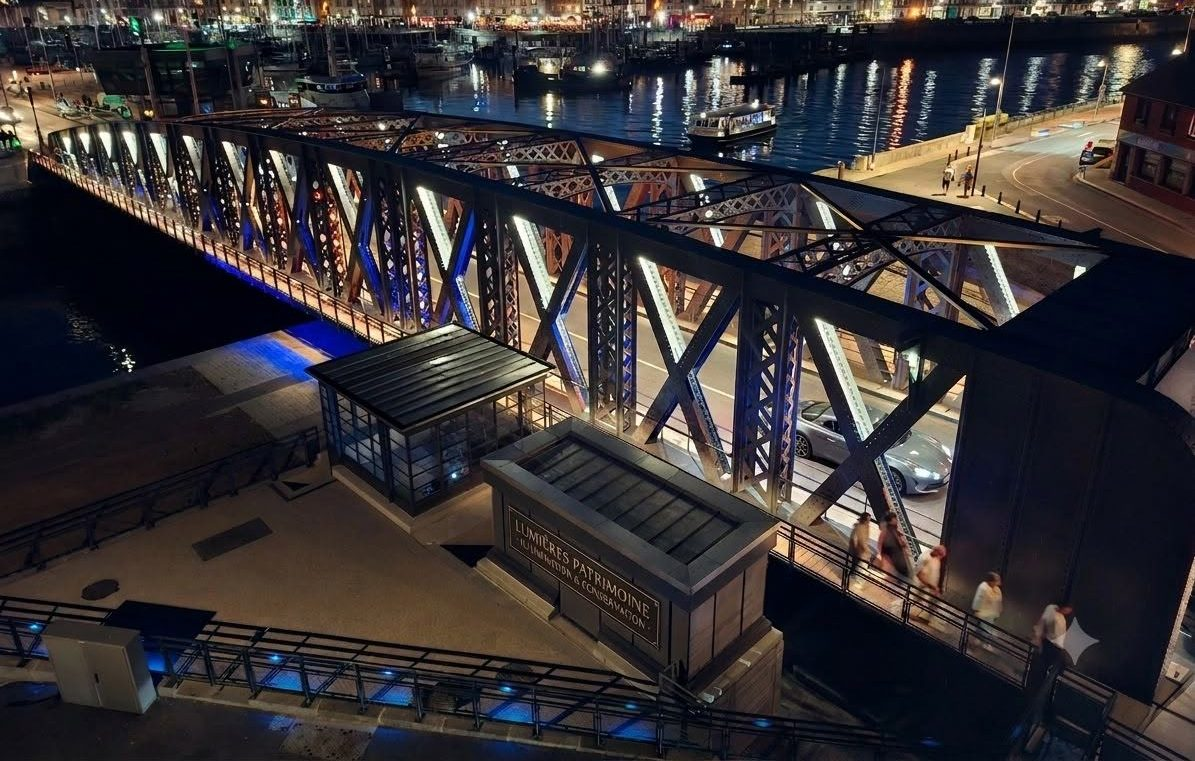
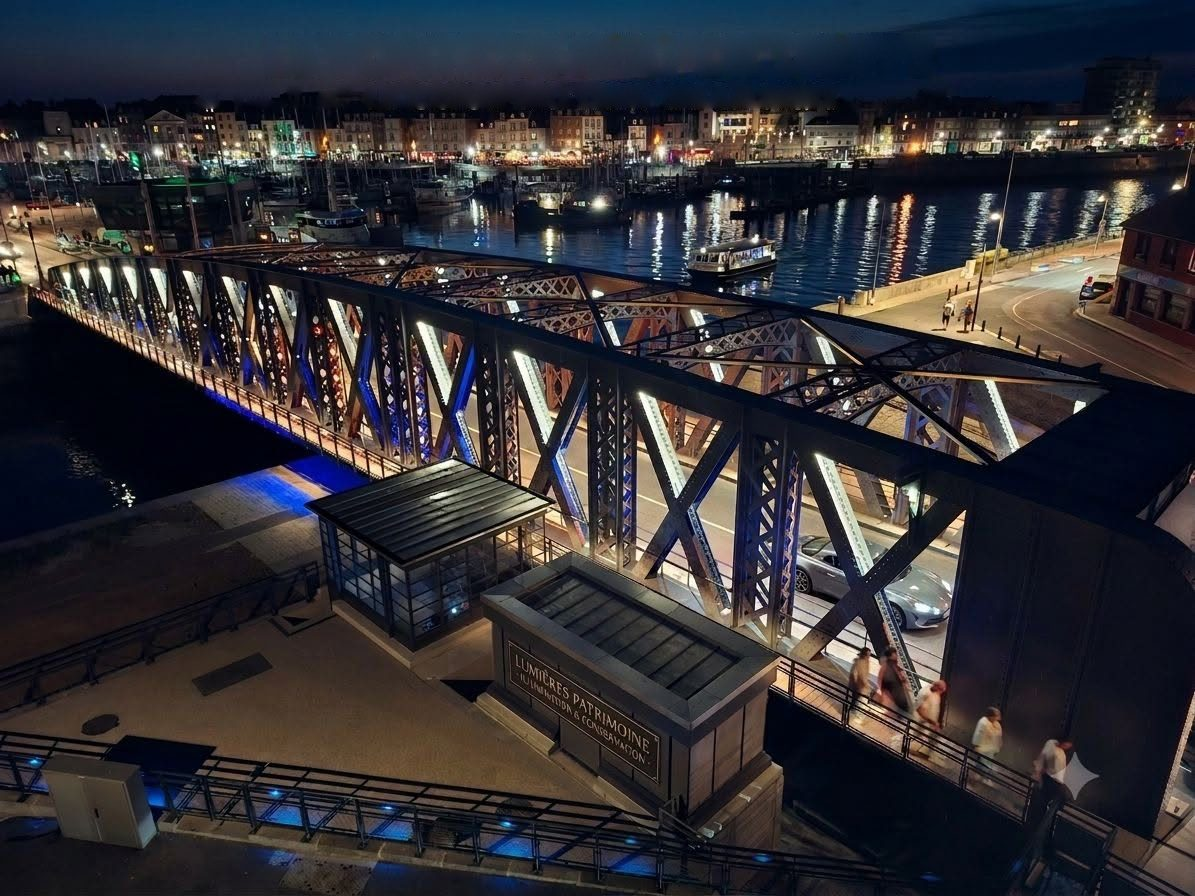
Rend au theme sombre le front de mer, cadre comme le theme clair
La photo de nuit avait ete rognee de 135 px en haut pour supprimer son titre
incruste, ce qui emportait les immeubles du quai et lui donnait un rapport
different de la photo de jour : object-fit: cover recadrant selon le rapport de
l image, le pont ne tombait pas au meme endroit selon le theme.

Le titre est desormais reconstruit plutot que rogne (src/efface_titre.py) et les
deux photos font 1195x896. build.js lit les dimensions dans les fichiers et
refuse de construire si elles different.

diff --git a/src/build.js b/src/build.js
@@ -41,8 +41,44 @@ function variantes(prefixe) {
   return trouvees;
 }
 
+// Dimensions réelles d'un JPEG, lues dans son marqueur SOF.
+function dimensions(rel) {
+  const buf = fs.readFileSync(path.join(root, rel));
+  let i = 2; // après le marqueur de début d'image
+  while (i + 9 < buf.length) {
+    if (buf[i] !== 0xFF) { i++; continue; }
+    const marqueur = buf[i + 1];
+    const porteLesDimensions = marqueur >= 0xC0 && marqueur <= 0xCF
+      && ![0xC4, 0xC8, 0xCC].includes(marqueur);
+    if (porteLesDimensions) {
+      return { hauteur: buf.readUInt16BE(i + 5), largeur: buf.readUInt16BE(i + 7) };
+    }
+    i += 2 + buf.readUInt16BE(i + 2);
+  }
+  throw new Error(`${rel} : dimensions JPEG introuvables`);
+}
+
 const NUIT = variantes('pont-nuit');
 const JOUR = variantes('pont-jour');
+
+// Les deux photos sont cadrées à l'identique, et le héro compte là-dessus : object-fit:
+// cover recadre selon le rapport de l'image, si bien que deux rapports différents font
+// sauter le pont d'une position à l'autre au changement de thème, d'un écart qui varie
+// avec la taille de l'écran. La contrainte est vérifiée ici plutôt que constatée à l'œil.
+if (NUIT.length !== JOUR.length) {
+  throw new Error(`photos : ${NUIT.length} variantes de nuit contre ${JOUR.length} de jour`);
+}
+NUIT.forEach((nuit, i) => {
+  const jour = JOUR[i];
+  const dn = dimensions(nuit.rel);
+  const dj = dimensions(jour.rel);
+  if (dn.largeur !== dj.largeur || dn.hauteur !== dj.hauteur) {
+    throw new Error(
+      `cadrage : ${nuit.rel} fait ${dn.largeur}x${dn.hauteur} et ${jour.rel} ${dj.largeur}x${dj.hauteur} — ` +
+      'les deux photos doivent avoir exactement les mêmes dimensions'
+    );
+  }
+});
 const plusGrande = v => v[v.length - 1].rel;
 const plusPetite = v => v[0].rel;
 const srcset = v => v.map(x => `${x.rel} ${x.largeur}w`).join(', ');
@@ -90,6 +126,15 @@ if (fragmentOnly) {
 }
 
 if (/__(DATA|PHOTO_DATA|AVIS_PAGE1|AVIS_PAGE2|AVIS_PDF)__/.test(html)) throw new Error('un repère est resté dans la sortie');
+// les dimensions déclarées réservent la place du héro avant le chargement : fausses,
+// la page sursaute au premier affichage
+const balise = html.match(/<img[^>]*class="hero-photo"[^>]*>/);
+if (!balise) throw new Error('gabarit : la photo du héro est introuvable');
+const reelles = dimensions(plusGrande(NUIT));
+if (!balise[0].includes(`width="${reelles.largeur}"`) || !balise[0].includes(`height="${reelles.hauteur}"`)) {
+  throw new Error(`gabarit : déclarer la photo du héro en ${reelles.largeur}x${reelles.hauteur}`);
+}
+
 const opens = (html.match(/<svg/g) || []).length;
 const closes = (html.match(/<\/svg>/g) || []).length;
 if (opens !== closes) throw new Error(`balises <svg> déséquilibrées : ${opens}/${closes}`);

diff --git a/index.html b/index.html
@@ -462,8 +462,8 @@
          spéculatif du navigateur télécharge la photo correspondant à la préférence du
          système avant même qu'un thème forcé ait pu être pris en compte. -->
     <img class="hero-photo" id="heroPhoto" data-nuit="assets/pont-nuit-1195.jpg" data-nuit-srcset="assets/pont-nuit-760.jpg 760w, assets/pont-nuit-1195.jpg 1195w" data-jour="assets/pont-jour-1195.jpg" data-jour-srcset="assets/pont-jour-760.jpg 760w, assets/pont-jour-1195.jpg 1195w" sizes="(max-width: 600px) 100vw, 560px"
-         width="1195" height="761" fetchpriority="high" decoding="async"
-         alt="Le pont Colbert illuminé de nuit au-dessus du chenal de Dieppe, sa travée en treillis soulignée de lumière bleue">
+         width="1195" height="896" fetchpriority="high" decoding="async"
+         alt="Le pont Colbert illuminé de nuit au-dessus du chenal de Dieppe, sa travée en treillis soulignée de lumière bleue, le front de mer du Pollet éclairé en arrière-plan">
     <script>
       /* Choisit la photo avant la première peinture : carte postale ancienne en thème
          clair, pont illuminé en thème sombre. Le thème mémorisé prime sur le système. */
@@ -800,7 +800,7 @@ const ICON_SUN = '<svg viewBox="0 0 24 24" fill="none" stroke="currentColor" str
   '<circle cx="12" cy="12" r="4.2"/><path d="M12 2.6v2.2M12 19.2v2.2M4.3 4.3l1.6 1.6M18.1 18.1l1.6 1.6M2.6 12h2.2M19.2 12h2.2M4.3 19.7l1.6-1.6M18.1 5.9l1.6-1.6"/></svg>';
 const ICON_MOON = '<svg viewBox="0 0 24 24" fill="none" stroke="currentColor" stroke-width="1.8" stroke-linecap="round" stroke-linejoin="round" aria-hidden="true">' +
   '<path d="M20 14.2A8.2 8.2 0 0 1 9.8 4 8.2 8.2 0 1 0 20 14.2Z"/></svg>';
-const ALT_NUIT = "Le pont Colbert illuminé de nuit au-dessus du chenal de Dieppe, sa travée en treillis soulignée de lumière bleue";
+const ALT_NUIT = "Le pont Colbert illuminé de nuit au-dessus du chenal de Dieppe, sa travée en treillis soulignée de lumière bleue, le front de mer du Pollet éclairé en arrière-plan";
 const ALT_JOUR = "Vue de jour du pont Colbert à Dieppe : sa travée en treillis rivetée franchissant le chenal, le bassin de plaisance et les quais du Pollet en arrière-plan";
 const heroPhoto = $("heroPhoto");
 const prefersLight = window.matchMedia("(prefers-color-scheme: light)");

diff --git a/src/pont_colbert_template.html b/src/pont_colbert_template.html
@@ -416,8 +416,8 @@
          spéculatif du navigateur télécharge la photo correspondant à la préférence du
          système avant même qu'un thème forcé ait pu être pris en compte. -->
     <img class="hero-photo" id="heroPhoto" __PHOTO_DATA__ sizes="(max-width: 600px) 100vw, 560px"
-         width="1195" height="761" fetchpriority="high" decoding="async"
-         alt="Le pont Colbert illuminé de nuit au-dessus du chenal de Dieppe, sa travée en treillis soulignée de lumière bleue">
+         width="1195" height="896" fetchpriority="high" decoding="async"
+         alt="Le pont Colbert illuminé de nuit au-dessus du chenal de Dieppe, sa travée en treillis soulignée de lumière bleue, le front de mer du Pollet éclairé en arrière-plan">
     <script>
       /* Choisit la photo avant la première peinture : carte postale ancienne en thème
          clair, pont illuminé en thème sombre. Le thème mémorisé prime sur le système. */
@@ -754,7 +754,7 @@ const ICON_SUN = '<svg viewBox="0 0 24 24" fill="none" stroke="currentColor" str
   '<circle cx="12" cy="12" r="4.2"/><path d="M12 2.6v2.2M12 19.2v2.2M4.3 4.3l1.6 1.6M18.1 18.1l1.6 1.6M2.6 12h2.2M19.2 12h2.2M4.3 19.7l1.6-1.6M18.1 5.9l1.6-1.6"/></svg>';
 const ICON_MOON = '<svg viewBox="0 0 24 24" fill="none" stroke="currentColor" stroke-width="1.8" stroke-linecap="round" stroke-linejoin="round" aria-hidden="true">' +
   '<path d="M20 14.2A8.2 8.2 0 0 1 9.8 4 8.2 8.2 0 1 0 20 14.2Z"/></svg>';
-const ALT_NUIT = "Le pont Colbert illuminé de nuit au-dessus du chenal de Dieppe, sa travée en treillis soulignée de lumière bleue";
+const ALT_NUIT = "Le pont Colbert illuminé de nuit au-dessus du chenal de Dieppe, sa travée en treillis soulignée de lumière bleue, le front de mer du Pollet éclairé en arrière-plan";
 const ALT_JOUR = "Vue de jour du pont Colbert à Dieppe : sa travée en treillis rivetée franchissant le chenal, le bassin de plaisance et les quais du Pollet en arrière-plan";
 const heroPhoto = $("heroPhoto");
 const prefersLight = window.matchMedia("(prefers-color-scheme: light)");

diff --git a/src/efface_titre.py b/src/efface_titre.py
@@ -1,0 +1,116 @@
+# Efface le titre incrusté en haut de la photo nocturne du pont.
+#
+# La photo d'origine porte « LE PONT COLBERT DE DIEPPE / LE CŒUR BATTANT DE LA NUIT ».
+# Rogner suffirait à le supprimer, mais emporterait le front de mer, justement joli de
+# nuit — et surtout donnerait à la photo nocturne un format différent de la photo diurne,
+# alors que les deux sont cadrées à l'identique en 1195x896. Or object-fit: cover recadre
+# selon le rapport de l'image : deux rapports différents, c'est un pont qui saute d'une
+# position à l'autre au changement de thème, d'un écart qui varie avec la taille de
+# l'écran. Le texte est donc reconstruit, pas rogné.
+#
+# Il repose entièrement sur le ciel : les toits ne commencent qu'à y ~ 110.
+#
+# Deux précautions, tirées d'une première version ratée :
+#
+#  - le masque compare chaque pixel à la médiane d'une fenêtre horizontale, pas à celle de
+#    la ligne entière. Le ciel garde une lueur de couchant sur la droite ; mesurée sur la
+#    ligne entière, cette lueur passait pour du texte et se faisait effacer, laissant un
+#    rectangle plus clair ;
+#  - le remplissage résout une équation de Laplace sur la zone masquée, les pixels
+#    conservés servant de conditions aux limites. Une interpolation horizontale ligne à
+#    ligne, elle, traitait chaque ligne indépendamment et laissait des traînées.
+#
+# Usage : python src/efface_titre.py <photo-source.jpg> [-s sortie.jpg]
+import argparse
+import os
+
+import numpy as np
+from numpy.lib.stride_tricks import sliding_window_view
+from PIL import Image
+
+# Zone fouillée. Relevé sur la photo d'origine : le sous-titre occupe les lignes 87 à 108,
+# les toits commencent à la ligne 109. La zone doit couvrir la ligne 108 comprise — s'y
+# arrêter une ligne trop tôt laisse du texte juste sous le masque, et la diffusion remonte
+# alors sa clarté dans le ciel en halos. La borne droite laisse de côté l'immeuble haut du
+# bord droit, qui monte jusqu'à y ~ 57.
+X0, X1, Y0, Y1 = 150, 1050, 10, 109
+RAYON = 30       # demi-largeur de la fenêtre de médiane locale
+ECART = 22       # écart à cette médiane au-delà duquel un pixel est du texte
+MARGE = 4        # dilatation du masque, pour attraper l'anticrénelage des lettres
+ITERATIONS = 3000
+GRAIN = 1.2      # bruit rendu au ciel reconstruit, pour ne pas trancher avec le reste
+
+
+def masque_texte(band):
+    """Pixels s'écartant nettement du ciel local, dilatés."""
+    h, l, _ = band.shape
+    pad = np.pad(band, ((0, 0), (RAYON, RAYON), (0, 0)), mode="edge")
+    ecarts = np.zeros((h, l), dtype=np.float64)
+    for c in range(3):
+        fenetres = sliding_window_view(pad[:, :, c], 2 * RAYON + 1, axis=1)
+        mediane = np.median(fenetres, axis=-1)
+        ecarts = np.maximum(ecarts, np.abs(band[:, :, c] - mediane))
+
+    m = ecarts > ECART
+
+    # dilatation par décalages francs : np.roll ferait réapparaître en haut de la zone ce
+    # qui déborde en bas, donc du masque au milieu du ciel
+    dilate = np.zeros_like(m)
+    for dy in range(-MARGE, MARGE + 1):
+        src_y = slice(max(0, -dy), h - max(0, dy))
+        dst_y = slice(max(0, dy), h - max(0, -dy))
+        for dx in range(-MARGE, MARGE + 1):
+            src_x = slice(max(0, -dx), l - max(0, dx))
+            dst_x = slice(max(0, dx), l - max(0, -dx))
+            dilate[dst_y, dst_x] |= m[src_y, src_x]
+    return dilate
+
+
+def efface(source, sortie):
+    im = Image.open(source).convert("RGB")
+    if im.width < X1 or im.height < Y1:
+        raise SystemExit(f"{source} : {im.width}x{im.height}, trop petite pour la zone de texte")
+
+    pixels = np.asarray(im, dtype=np.float64)
+
+    # on travaille sur une bande plus large que la zone : les pixels conservés du pourtour
+    # fournissent les conditions aux limites du remplissage
+    hy0, hy1 = max(0, Y0 - 12), min(im.height, Y1 + 22)
+    hx0, hx1 = max(0, X0 - 40), min(im.width, X1 + 40)
+    band = pixels[hy0:hy1, hx0:hx1].copy()
+
+    m = np.zeros(band.shape[:2], dtype=bool)
+    m[Y0 - hy0:Y1 - hy0, X0 - hx0:X1 - hx0] = masque_texte(
+        band[Y0 - hy0:Y1 - hy0, X0 - hx0:X1 - hx0]
+    )
+    # le bord de la bande doit rester intact : c'est lui qui fixe les valeurs aux limites
+    m[0, :] = m[-1, :] = m[:, 0] = m[:, -1] = False
+    if not m.any():
+        raise SystemExit("aucun texte détecté — la photo est-elle bien l'originale ?")
+
+    travail = band.copy()
+    for _ in range(ITERATIONS):
+        moyenne = (travail[:-2, 1:-1] + travail[2:, 1:-1]
+                   + travail[1:-1, :-2] + travail[1:-1, 2:]) / 4.0
+        interieur = m[1:-1, 1:-1]
+        travail[1:-1, 1:-1][interieur] = moyenne[interieur]
+
+    grain = np.random.default_rng(0).normal(0.0, GRAIN, travail.shape)
+    travail[m] += grain[m]
+
+    band[m] = travail[m]
+    pixels[hy0:hy1, hx0:hx1] = band
+
+    Image.fromarray(np.clip(pixels, 0, 255).astype(np.uint8)).save(
+        sortie, quality=95, subsampling=0
+    )
+    print(f"{os.path.basename(sortie)} : {im.width}x{im.height}, "
+          f"{int(m.sum())} pixels de ciel reconstruits")
+
+
+if __name__ == "__main__":
+    p = argparse.ArgumentParser(description="Efface le titre incrusté de la photo nocturne.")
+    p.add_argument("source")
+    p.add_argument("-s", "--sortie", default=None)
+    a = p.parse_args()
+    efface(a.source, a.sortie or os.path.splitext(a.source)[0] + "-sans-titre.jpg")

diff --git a/README.md b/README.md
@@ -67,7 +67,9 @@ docs/               avis officiel de la capitainerie : PDF et pages en images
 src/
   pont_colbert_template.html  gabarit : styles, mise en page, logique d'affichage
   prepare_photo.py            recadre une photo et produit les largeurs voulues
+  efface_titre.py             reconstruit le ciel sous le titre incrusté de la photo de nuit
   prepare_avis.py             copie l'avis PDF et en rend les pages en images
+  publish.js                  assemble public/ : les seuls fichiers à mettre en ligne
   dataset.json                marées 2026-2028 : [minutesUTC, hauteurCm, pleineMer, coeff, prédit]
   build.js                    assemble gabarit + photo + données, ajoute l'en-tête HTML → index.html
   harmonic.js                 analyse et prédiction harmonique de la marée
@@ -105,10 +107,29 @@ node src/build.js
 ```
 
 `--nom` vaut `pont-jour` ou `pont-nuit`. `--haut` et `--bas` retirent une bande de texte
-incrustée (le titre de la photo de nuit, la légende de la carte postale). Les fichiers
-sont nommés d'après leur largeur réelle — jamais d'agrandissement — et le build les
-découvre dans `assets/` pour en tirer un `srcset` exact.
+incrustée. Les fichiers sont nommés d'après leur largeur réelle — jamais d'agrandissement
+— et le build les découvre dans `assets/` pour en tirer un `srcset` exact.
 Nécessite Pillow : `python -m pip install --user pillow`.
+
+**Les deux photos doivent avoir exactement les mêmes dimensions** (aujourd'hui 1195x896 et
+760x570). `object-fit: cover` recadre selon le rapport de l'image : deux rapports
+différents font sauter le pont d'une position à l'autre au changement de thème, d'un écart
+qui varie en plus avec la taille de l'écran. `build.js` lit les dimensions dans les
+fichiers et refuse de construire si elles diffèrent.
+
+C'est cette contrainte qui interdit de rogner le titre incrusté en haut de la photo
+nocturne : le rogner emporterait le front de mer, joli de nuit, et changerait le rapport.
+Le titre est donc reconstruit plutôt que rogné :
+
+```bash
+python src/efface_titre.py chemin/vers/photo-nuit-originale.jpg -s propre.jpg
+python src/prepare_photo.py propre.jpg --nom pont-nuit --largeurs 1195 760
+```
+
+`efface_titre.py` repère les pixels qui s'écartent du ciel local puis rebouche la zone en
+résolvant une équation de Laplace, les pixels conservés servant de conditions aux limites.
+Les repères de la photo actuelle sont dans le fichier : texte sur les lignes 87 à 108,
+toits à partir de la ligne 109. Nécessite NumPy : `python -m pip install --user numpy`.
 
 ## Modifier le site
 
